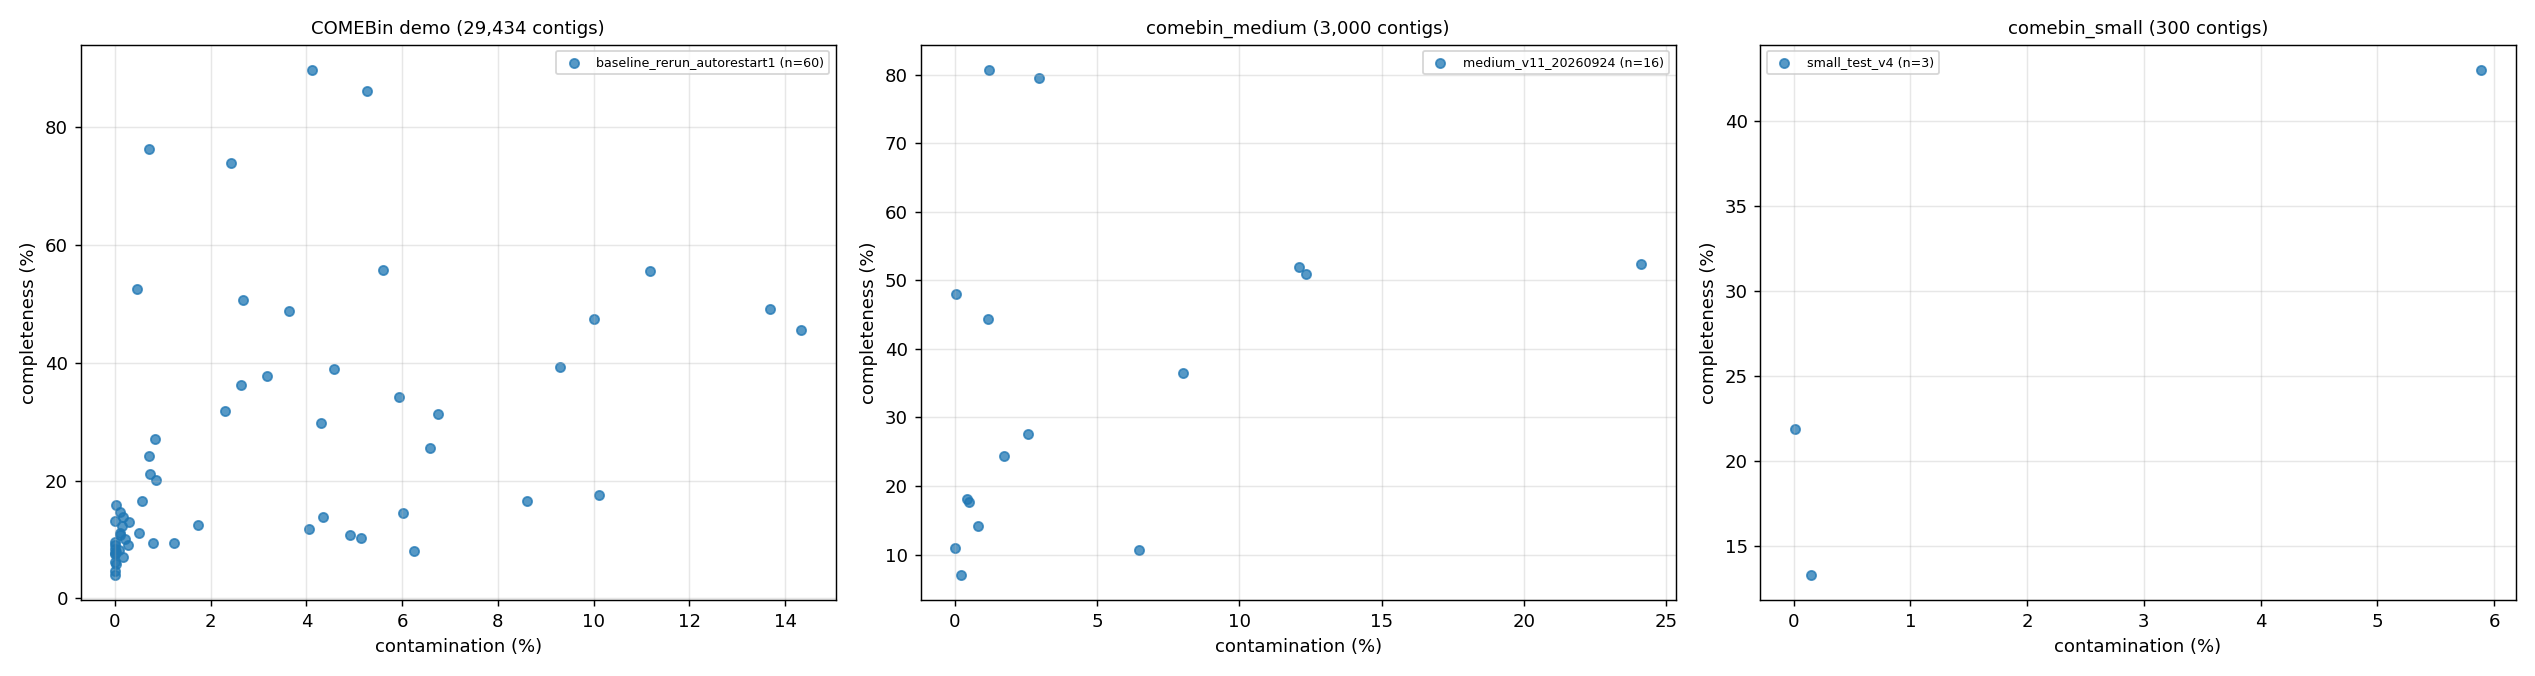
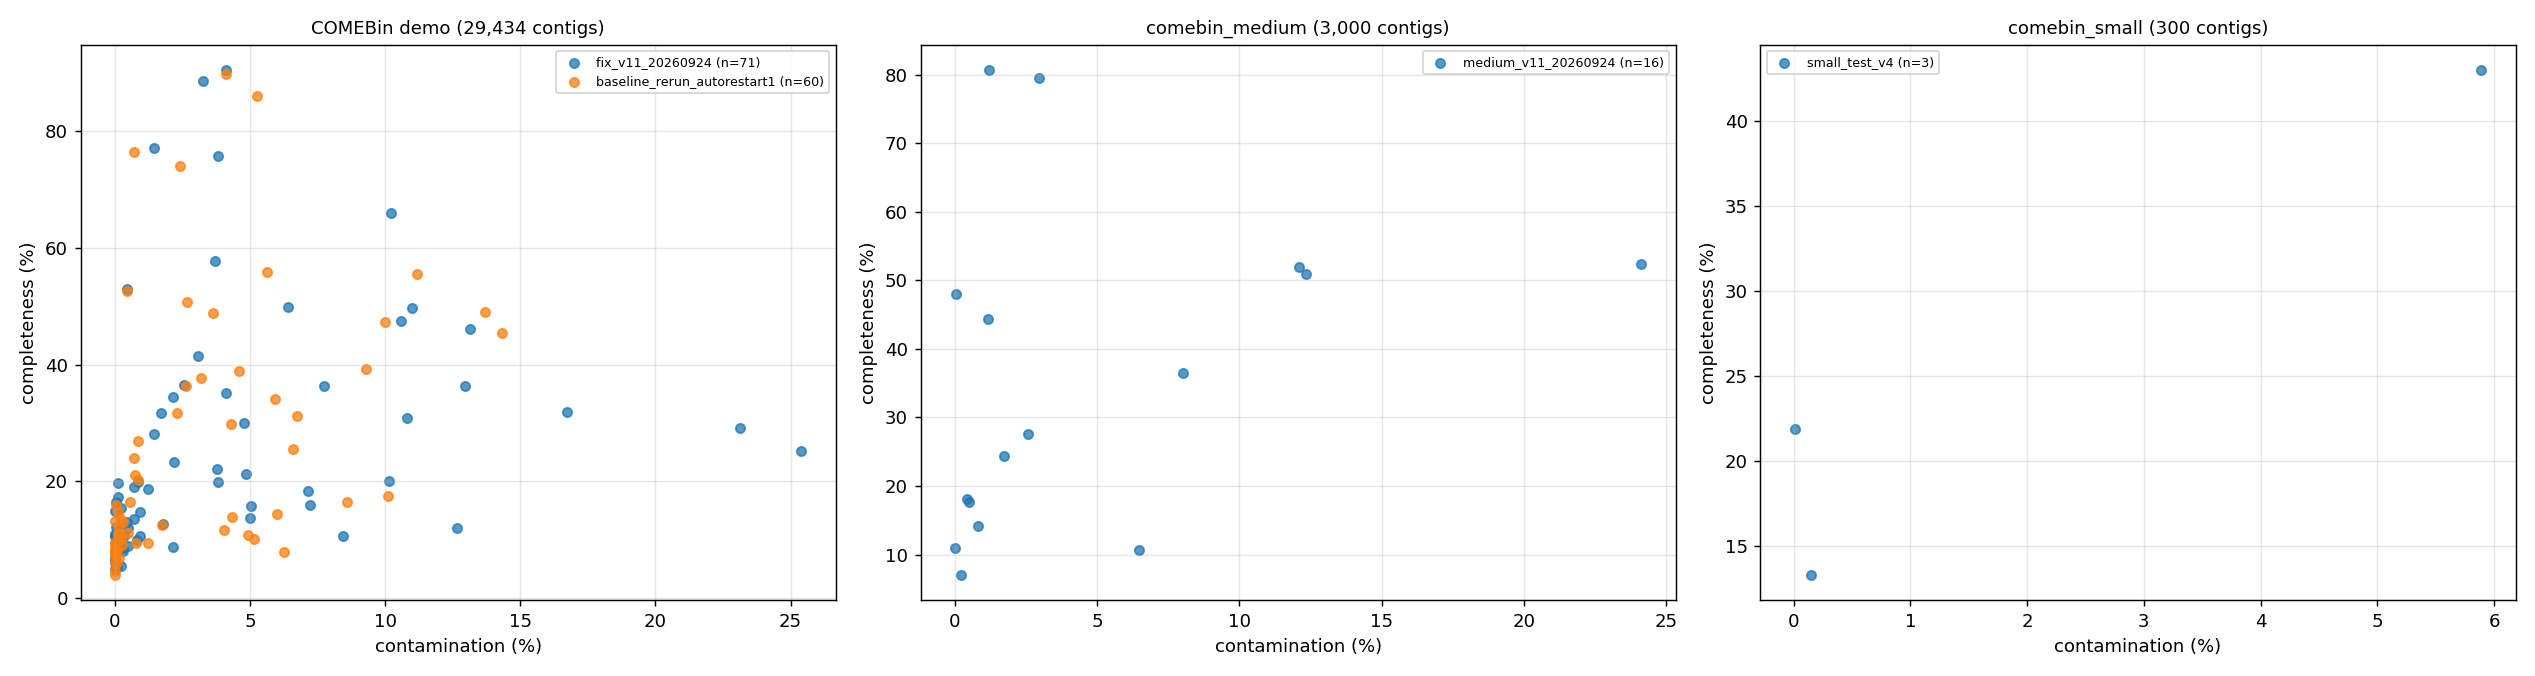
fix_v11 eval complete + issue #18 triage prep
- results/fix_v11_20260924.csv: 71 bins, CheckM2 24.38/3.78 (HQ1 MQ6),
  CheckM v1 21.62/5.18 (HQ0 MQ8); wall 24741 s, early stop 184/200 (--earlystop)
- docs/11: fix_v11 table + run-history row; attempt counts 11/7 fail/4 ok
- README + docs/09: flowchart rewritten as a straight 4-stage pipeline (issue #7)
- scripts/run_small_test.sh: DATA= env override for the tiny set (issue #18)
- PROGRESS.md: fix_v11 marked complete; issue #18 and #7 tracked as active

diff --git a/docs/11-run-results.md b/docs/11-run-results.md
@@ -7,13 +7,14 @@ One row per benchmark run, updated by the agent after each run (timings from `ru
 | `baseline_rerun_autorestart1` | 2026-09-24 | [904f649](https://github.com/paulzierep/COMEBin/commit/904f649ef5cbb4582a6f0e5ec8b0b1f45778d85b) | COMEBin demo (29,434 contigs) | 32 | 24,327 s | 5.42 GB | 60 | 25.01 / 2.98 | 21.23 / 3.40 | ✅ complete; 200/200 epochs |
 | `small_test_v4` | 2026-09-24 | [c8f22e4](https://github.com/paulzierep/COMEBin/commit/c8f22e4935a66a0fd58b794489a9021671b15437) | `comebin_small` (300 contigs) | 8 | 122 s | 0.75 GB | 3 | 26.07 / 2.02 | 29.08 / 0.71 | ✅ functional gate passed |
 | `medium_v11_20260924` | 2026-09-24 | [95f5ea8](https://github.com/paulzierep/COMEBin/commit/95f5ea820f9a4e76f5c2911c0b5ed507ab67b015) | `comebin_medium` (3,000 contigs) | 32 | 2,326 s | 10.69 GB | 16 | 35.93 / 4.67 | 33.83 / 6.03 | ✅ complete; 200/200 epochs, 61.23% Top1; [CSV](../results/medium_v11_20260924.csv) |
+| `fix_v11_20260924` | 2026-09-24 | [95f5ea8](https://github.com/paulzierep/COMEBin/commit/95f5ea820f9a4e76f5c2911c0b5ed507ab67b015) | COMEBin demo (29,434 contigs) | 32 | 24,741 s | 9.4 GB | 71 | 24.38 / 3.78 | 21.62 / 5.18 | ✅ complete; stopped early at epoch 184/200 (`--earlystop`, Top-1 ≥ 99% × 3); [CSV](../results/fix_v11_20260924.csv) |
 | `baseline_unmodified` | 2026-09-23 | [987db95](https://github.com/paulzierep/COMEBin/commit/987db95d8d399f30b7c82a5f5f40ed6bfdc906c7) (upstream) | COMEBin demo (29,434 contigs) | 32 | – | – | – | – | – | ⏹ failed at epoch 175/200 — see [Run history](#run-history--what-happened-and-whats-next) |
 
 Column contract: **Wall time** = total seconds (plus per-stage breakdown in `docs/02-comebin-baseline.md`), **Bins** = bins exported (≥200 kb filter noted), **comp/cont** = mean completeness / mean contamination, **HQ/MQ counts** live in `results/<run>.csv`. **Source commit** is always a clickable link to that exact commit on GitHub. Per-bin CheckM2 values for the completed medium gate are in [`medium_v11_20260924_checkm2_stats.csv`](../medium_v11_20260924_checkm2_stats.csv).
 
 ## Run history — what happened and what's next
 
-Ten COMEBin-executing attempts have been recorded: seven terminal failures and three completed runs. The baseline rerun, small functional gate, and medium derivative now have verified bin artifacts and CheckM2/CheckM outputs. Run links point to tracked evidence mirrors; the status banner at the top is authoritative for any active run.
+Eleven COMEBin-executing attempts have been recorded: seven terminal failures and four completed runs. The baseline rerun, small functional gate, medium derivative, and large fix run now have verified bin artifacts and CheckM2/CheckM outputs. Run links point to tracked evidence mirrors; the status banner at the top is authoritative for any active run.
 
 ### COMEBin-executing attempts
 
@@ -28,8 +29,8 @@ Ten COMEBin-executing attempts have been recorded: seven terminal failures and t
 | [`small_test_v3`](runs/small_test_v3/comebin_run.log) — 2026-09-24 08:45:18 → 08:46:40 | [a0be243](https://github.com/paulzierep/COMEBin/commit/a0be243187c674b4e62b980ef100f8f2e8b83f54) | **Failed functional gate.** Training completed, but the small branch still had the pre-`358ddd8` KMeans call; `KMeans(n_jobs=-1)` raised `TypeError`, and the wrapper masked it as exit 0 with zero bins. | Apply the sklearn compatibility fix to `comebin-small-fix`; the runner now rejects zero-bin success. |
 | [`baseline_rerun_autorestart1`](runs/baseline_rerun_autorestart1/comebin_run.log) — 2026-09-24 00:30:01 → 07:15:28 | [904f649](https://github.com/paulzierep/COMEBin/commit/904f649ef5cbb4582a6f0e5ec8b0b1f45778d85b) | **✅ Complete.** 200/200 epochs, 99.19% Top1. Clustering fixed (hmmer 3.1b2 + sklearn KMeans). CheckM2: 60 bins, 25.01% comp, 2.98% cont. CheckM v1: 60 bins, 21.23% comp, 3.40% cont. | Evaluation done via `scripts/run_eval.sh`. See `eval/checkm2/quality_report.tsv` and `eval/checkm/out/storage/bin_stats_ext.tsv`. |
 | [`small_test_v4`](runs/small_test_v4/comebin_run.log) — 2026-09-24 08:48:33 → 08:50:35 | [c8f22e4](https://github.com/paulzierep/COMEBin/commit/c8f22e4935a66a0fd58b794489a9021671b15437) | **✅ Functional gate passed.** 30/30 epochs, 3 non-empty bins in 122 s. CheckM2: 26.07% mean completeness / 2.02% contamination. CheckM v1 (Python 3.10 + `pplacer` library path): 29.08% / 0.71%. | Small gate is complete; medium 3,000-contig derivative is next. See [`results/small_test_v4.csv`](results/small_test_v4.csv). |
-
 | [`medium_v11_20260924`](../runs/medium_v11_20260924/comebin_run.log) — 2026-09-24 09:25:50 → 10:04:36 | [95f5ea8](https://github.com/paulzierep/COMEBin/commit/95f5ea820f9a4e76f5c2911c0b5ed507ab67b015) | **✅ Complete.** 200/200 epochs, 61.23% Top1, 16 non-empty bins in 2,326 s. CheckM2: 35.93% mean completeness / 4.67% contamination (MQ=2). CheckM v1: 33.83% / 6.03% (MQ=3). | Evaluation completed with `scripts/run_eval.sh`; see the [aggregate CSV](../results/medium_v11_20260924.csv) and the [per-bin tables](../runs/medium_v11_20260924/per_bin_results.csv) / [CheckM2 per-bin](../runs/medium_v11_20260924/checkm2_per_bin.csv). |
+| [`fix_v11_20260924`](../runs/fix_v11_20260924/comebin_run.log) — 2026-09-24 10:37:15 → 17:29:36 | [95f5ea8](https://github.com/paulzierep/COMEBin/commit/95f5ea820f9a4e76f5c2911c0b5ed507ab67b015) | **✅ Complete** (exit 0, wall 24,741 s). Stopped early at **epoch 184/200** because upstream v1.1.0 `run_comebin.sh` passes `--earlystop` (Top-1 > 99% for 3 epochs: 99.10 → 99.22 → 99.04%), then clustering completed normally (120/120 Leiden) → **71 non-empty bins**. CheckM2: 24.38% / 3.78% (HQ 1, MQ 6). CheckM v1: 21.62% / 5.18% (HQ 0, MQ 8). Versus the baseline on the same data: +1.7% wall time, +11 bins, −0.63 pp completeness, +0.80 pp contamination. | Evaluation done with `scripts/run_eval.sh` (CheckM2 71 s, CheckM v1 398 s); see the [aggregate CSV](../results/fix_v11_20260924.csv) and [per-bin table](../runs/fix_v11_20260924/per_bin_results.csv). Next: issue #18 datasets (tiny + CAMI human ~1/6). |
 
 ### Guard-only launches
 

diff --git a/PROGRESS.md b/PROGRESS.md
@@ -347,14 +347,38 @@ included; fixes land on branch `comebin-optimizations` in this repo.
       Aggregate evidence: `results/medium_v11_20260924.csv`; per-bin joined table
       `runs/medium_v11_20260924/per_bin_results.csv` (CheckM2 x CheckM v1, from
       `scripts/make_per_bin_csv.py`); CheckM2-only `runs/medium_v11_20260924/checkm2_per_bin.csv`.
-- [ ] **ACTIVE: fix_v11 full-large benchmark** — `runs/fix_v11_20260924`
-      registered in `.active_run` (mode fix) at 2026-09-24T10:37Z; source
-      COMEBin-v11 @ `95f5ea8` (branch comebin-optimizations-v11, clean), full
-      demo dataset (29,434 contigs), 32 threads, seed 42, 200 epochs (observed
-      cadence ~1.4–1.9 min/epoch steady-state ⇒ ~5 h total, ETA ≈ 16:00 UTC,
-      32-core CPU ~2900%, RAM 9.4 GB). Next after
-      terminal status: `scripts/run_eval.sh runs/fix_v11_20260924` (CheckM2 +
-      CheckM v1) → `make_results_csv.py` → per-bin CSV → README/docs-11 row.
+- [x] **COMPLETE: fix_v11 full-large benchmark + evaluation (2026-09-24/25)** —
+      `runs/fix_v11_20260924` registered at 2026-09-24T10:37Z, source COMEBin-v11
+      @ `95f5ea8` (branch comebin-optimizations-v11), full demo dataset (29,434
+      contigs), 32 threads, seed 42. **exit_code 0, wall_s 24,741 (~6.9 h),
+      finished 2026-09-24T17:29:36Z, 71 non-empty bins.** Training stopped
+      **early at epoch 184/200** — not an error: upstream v1.1.0
+      `run_comebin.sh` passes `--earlystop` (Top-1 > 99 % for 3 consecutive
+      epochs: 99.10 → 99.22 → 99.04 %); clustering then ran 120/120 Leiden and
+      finished normally. Evaluation (run 2026-09-25 01:04–01:16Z, no other
+      run active): **CheckM2** rc 0 / 71 s → 71 bins, 24.38 % mean completeness,
+      3.78 % contamination, HQ 1, MQ 6; **CheckM v1** rc 0 / 398 s → 21.62 % /
+      5.18 %, HQ 0, MQ 8. Auto-reporting wrote `results/fix_v11_20260924.csv`,
+      `runs/fix_v11_20260924/per_bin_results.csv`, `per_bins.png` and refreshed
+      both comparison figures. README Current/Next + `docs/11` table/history row
+      updated. Versus baseline (same data): +1.7 % wall, 60 → 71 bins,
+      −0.63 pp completeness, +0.80 pp contamination.
+- [ ] **ACTIVE: issue #18 "Benchmark size"** (user, 2026-09-24 15:31Z; triaged
+      2026-09-25 01:10Z, comment `5824960513`). Two directives:
+      (a) **smallest functional dataset** — smaller than `comebin_small`
+      (300 contigs / 94 MB / 122 s), stepped down until it still trains and
+      yields ≥ 1 non-empty bin (`run_small_test.sh` now takes `DATA=…` env);
+      (b) **CAMI II human host-associated set at ~1/6 the size of the big demo**
+      (29,434 contigs / 6.9 h ⇒ target ≈ 4,900 contigs, ≈ 1 h per run) — source
+      frl:6425518 (Toy Human Microbiome, `gastrooral/sample_0.tar.gz` ≈ 9.1 GB,
+      structure verified by streamed listing: `bam/OTU_*.bam` per-OTU files —
+      same per-genome-BAM problem as marine, so reads must be re-mapped with
+      `bwa mem` or the assembly subset must carry its own BAM). Disk budget
+      ≤ 30 GB, 377 GB free.
+- [ ] **Issue #7 flowchart "different logic"** (user comment 2026-09-24 11:44Z):
+      previous cycle/loop flowchart rendered badly → replaced with a straight
+      4-stage pipeline (small → medium → large → keep/revert, no back-edges) in
+      README + docs/09; comment with the new chart still to post.
 - [x] **Issue #12 subplot request + issue #7 mermaid truncation (2026-09-24 ~11:32 UTC)**:
       `make_per_bin_plots.py` now writes `results/figures/comp_vs_cont_by_dataset.png`
       (one panel per benchmark dataset auto-derived from run_meta.txt `contigs:`;

diff --git a/docs/09-optimization-strategy.md b/docs/09-optimization-strategy.md
@@ -33,22 +33,17 @@ per batch** (see `docs/07-fix-batches.md`). Each batch goes through the gate bel
 
 ```mermaid
 flowchart TD
-    A["Candidate change or parameter"] --> B["Small functional test 300 contigs"]
-    B -->|fail| G["Investigate fix or drop"]
-    G --> A
-    B -->|pass| C["Benchmark on small or medium set"]
-    C --> D{"Better time AND quality?"}
-    D -->|yes| E["Keep commit and record"]
-    E --> F["Next batch from this commit"]
-    D -->|no| H["Revert or rework"]
-    H --> I["Combine with surviving ideas"]
-    I --> A
-    F --> J["Tune parameters on small sets"]
-    J --> K["Full large run only after gate"]
-    classDef keep fill:#d9f7be,stroke:#389e0d;
-    classDef drop fill:#ffccc7,stroke:#cf1322;
-    class A,B,C,E,F,J,K keep;
-    class G,H,I drop;
+    A["Idea or fix batch"] --> B["1. Small functional test"]
+    B --> C["2. Medium validation run"]
+    C --> D["3. Large benchmark vs baseline"]
+    D --> E{"Better time and quality?"}
+    E -->|yes| F["4. Keep and record"]
+    E -->|no| G["Rework or revert"]
+    F --> H["Next fix batch"]
+    classDef step fill:#d9f7be,stroke:#389e0d;
+    classDef stop fill:#ffccc7,stroke:#cf1322;
+    class A,B,C,D,F,H step;
+    class G stop;
 ```
 
 > The same flowchart is rendered live in the [README](../README.md) (issue #7).
